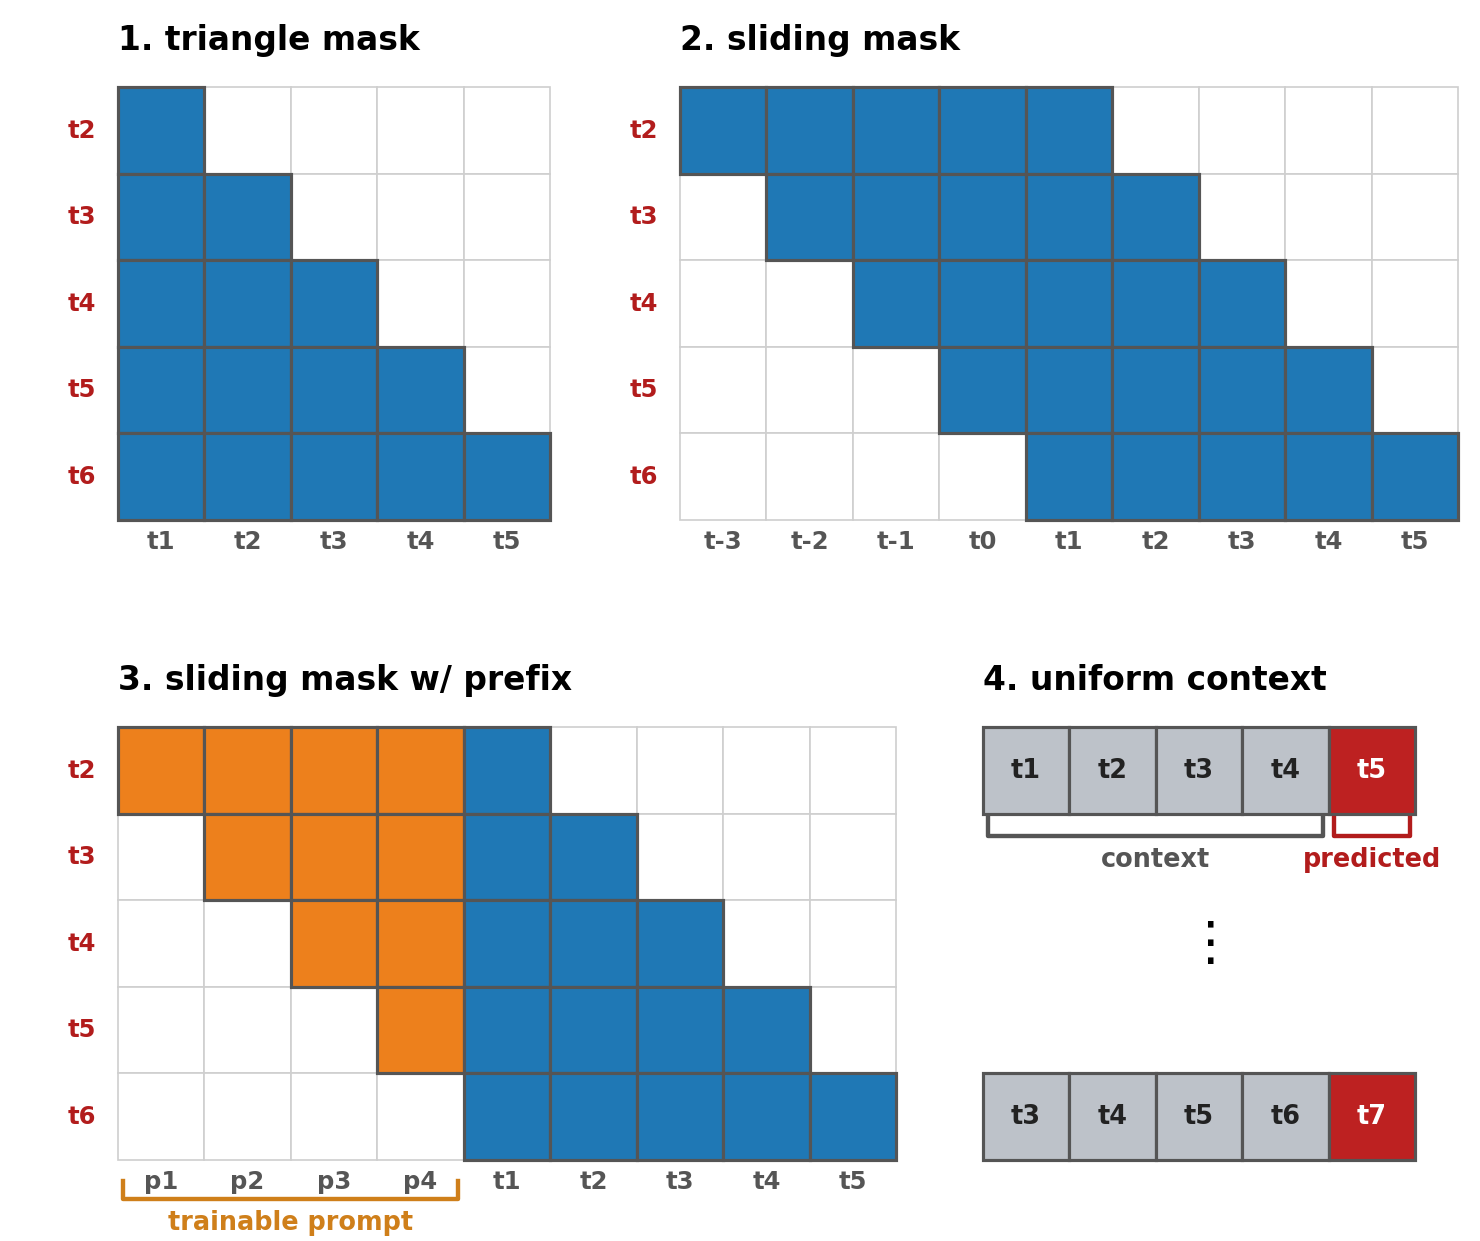
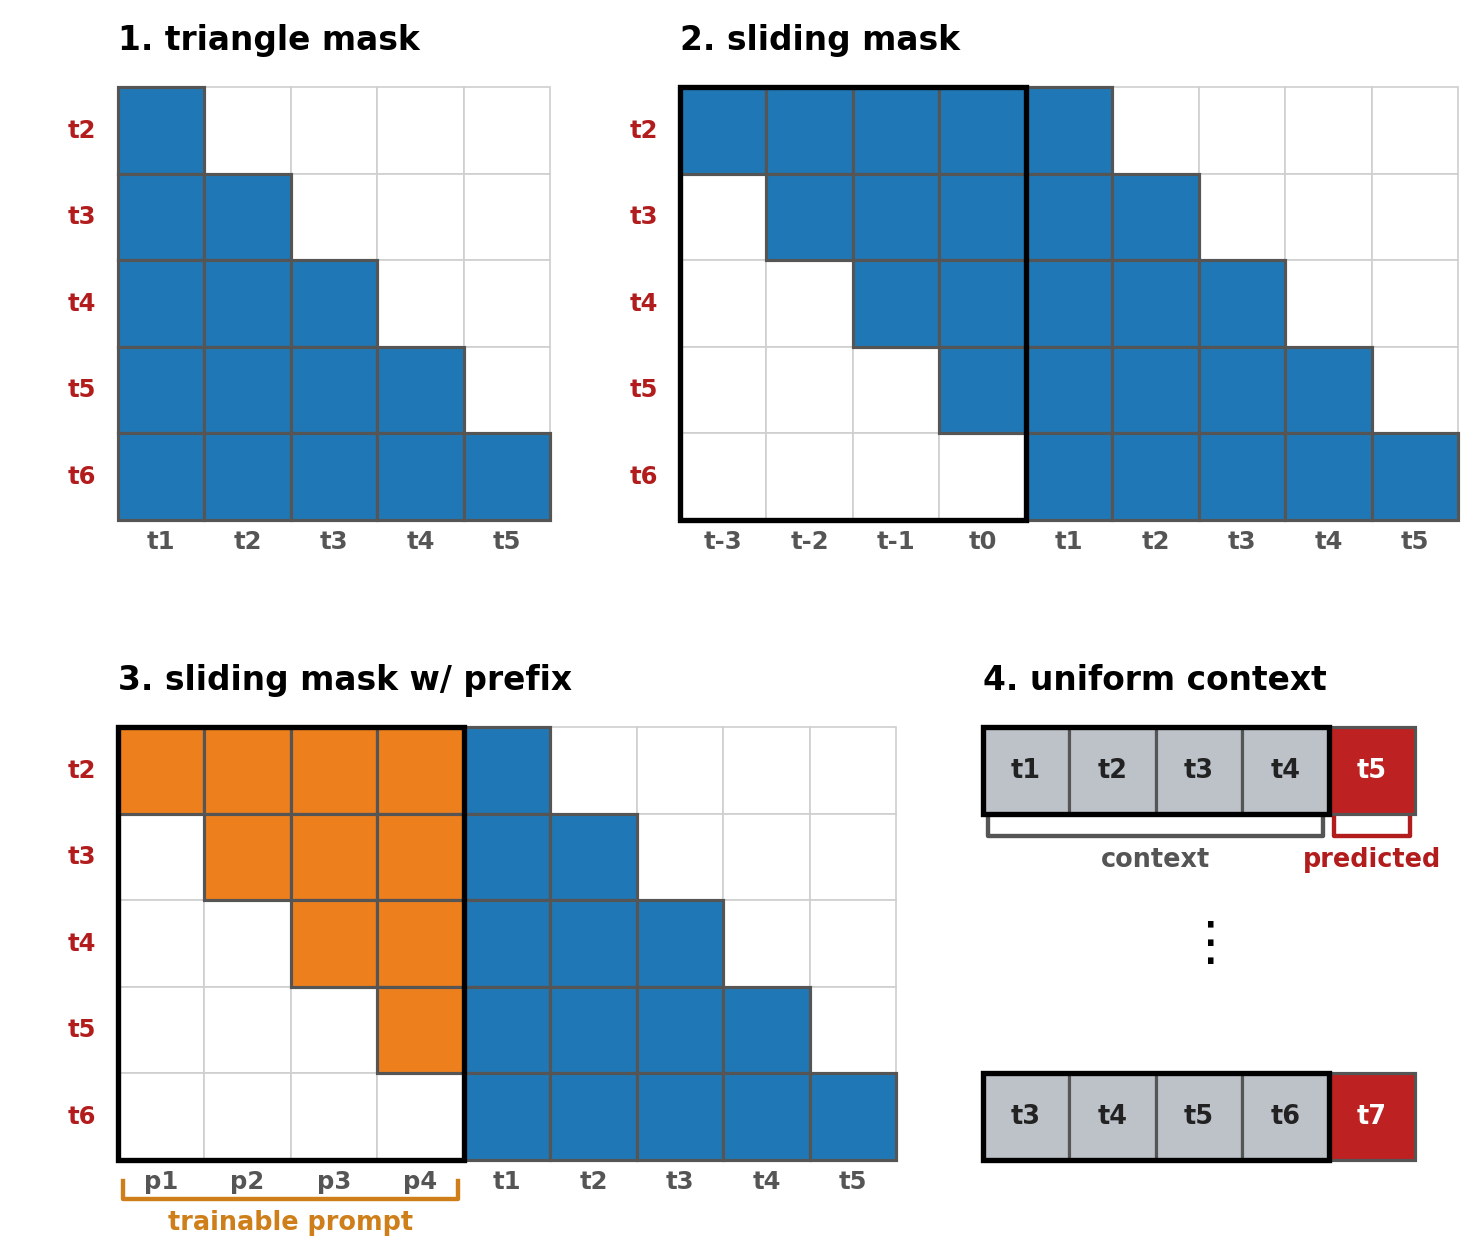
paper fig: black context boxes around first 4 columns of panels 2/3/4

diff --git a/experiments/07_autoresearch_sink/scripts/make_windowed_attention_fig.py b/experiments/07_autoresearch_sink/scripts/make_windowed_attention_fig.py
@@ -11,6 +11,7 @@ CTX,PRD="#555","#b21c1c"
 fig,ax=plt.subplots(figsize=(8.6,7.0)); ax.set_aspect("equal"); ax.axis("off")
 def Cl(x,y,fc): ax.add_patch(Rectangle((x,y),1,1,facecolor=fc,edgecolor="#555",lw=1.3,zorder=2))
 def Em(x,y): ax.add_patch(Rectangle((x,y),1,1,facecolor="white",edgecolor="#cfcfcf",lw=0.7,zorder=1))
+def cbox(x,y,w,h): ax.add_patch(Rectangle((x,y),w,h,facecolor="none",edgecolor="black",lw=2.2,zorder=6))
 def TT(x,y,t): ax.text(x,y,t,fontsize=13.5,fontweight="bold",ha="left",va="bottom")
 def XL(x,y,t,c): ax.text(x+.5,y,t,fontsize=10,fontweight="bold",ha="center",va="top",color=c)
 def YL(x,y,t,c): ax.text(x,y+.5,t,fontsize=10,fontweight="bold",ha="right",va="center",color=c)
@@ -52,6 +53,9 @@ def brace(x0,x1,label,ytop,col):
 brace(0,4,"trainable prompt",12.6,"#cf7f1a")     # trainable startup p1-p4 columns
 brace(10,14,"context",8.4,"#555")                  # uniform input tokens t1-t4
 brace(14,15,"predicted",8.4,"#b21c1c")           # uniform predicted t5
+cbox(6.5,0,4,5)        # panel 2: first 4 cols = context
+cbox(0,7.4,4,5)        # panel 3: first 4 cols (prefix fills context)
+cbox(10,7.4,4,1); cbox(10,11.4,4,1)   # panel 4: first 4 cols of each seq = context
 ax.set_xlim(-1.3,15.7); ax.set_ylim(13.1,-0.95)
 fig.subplots_adjust(left=0.004,right=0.996,top=0.996,bottom=0.004)
 out="/Users/zizhaohu/Desktop/projects/context-is-the-new-weight/.claude/worktrees/exp/paper/attention-sink/figures/windowed_attention.png"
